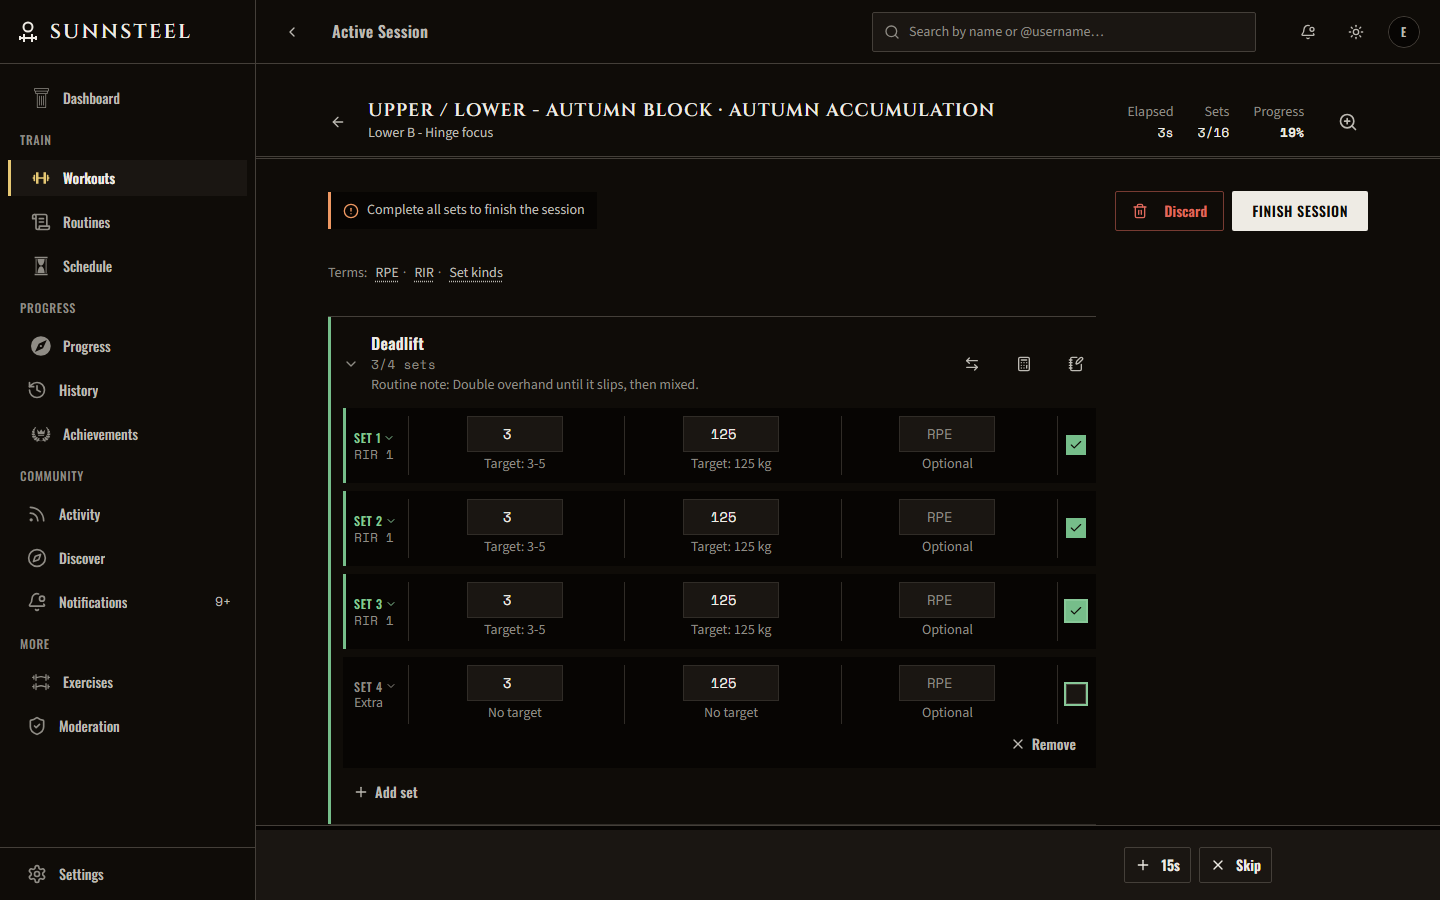
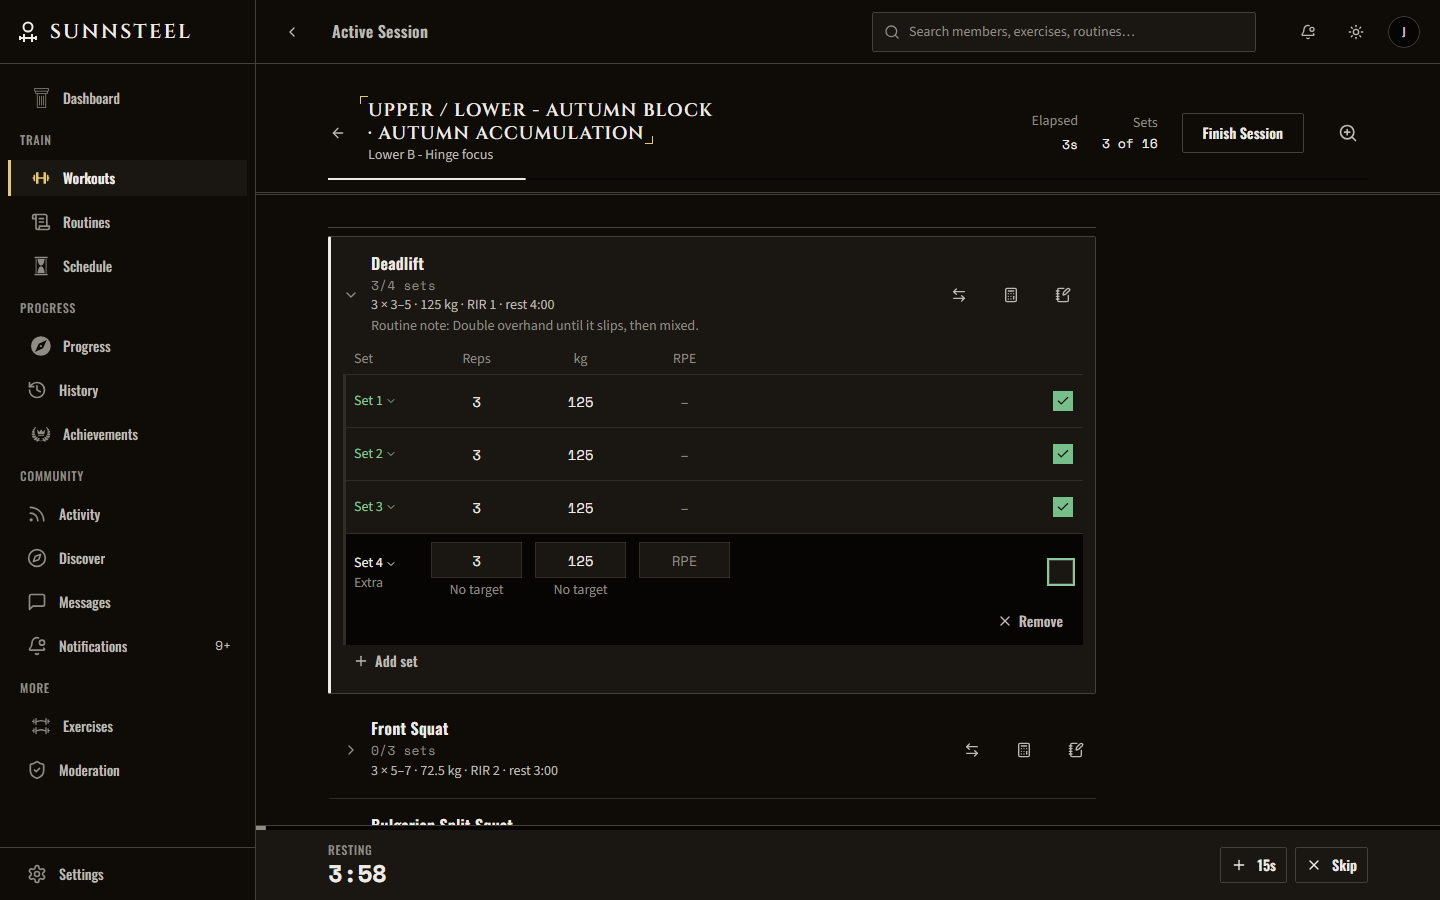
fix(workout): reduced motion marks only finished exercises done (LIVE-22)
Under reduced motion `.mark-fill::before` was scaled in on every row
that carries it, so each exercise on the workout screen, untouched or
current, showed the green completion rule. It is now scoped to
`.mark-success`, in the media block and its data-motion mirror.

The live-session portfolio setup ticks whatever set is current and opens
a folded exercise by its exact name to untick it, because a finished
exercise folds and rows can no longer be found by position; the three
frames are recaptured.

diff --git a/e2e/portfolio-targets.ts b/e2e/portfolio-targets.ts
@@ -150,21 +150,56 @@ async function startScratchSession(
 	}
 
 	const rows = page.getByTestId('set-log-container')
-	const logged: number[] = []
+	// LIVE-22: the set to log is always the current one, and a finished
+	// exercise folds, so rows are found by their names, never by position.
+	const logged: string[] = []
+	const exerciseOf = (label: string) =>
+		label.match(/^Mark set \d+ of (.+) complete$/)?.[1] ?? ''
+	const removeExtra = async () => {
+		const extra = rows.filter({ hasText: 'Extra' })
+		if (!(await extra.count())) return
+		// On the current row Remove is a button; off it, it is in the set's menu.
+		const button = extra.first().getByRole('button', { name: /^Remove set / })
+		if (await button.count()) {
+			await button.click()
+		} else {
+			await extra
+				.first()
+				.getByRole('button', { name: /^Set \d+, / })
+				.click()
+			await page.getByRole('menuitem', { name: /^Remove set / }).click()
+		}
+		await expect(extra).toHaveCount(0)
+	}
 	const cleanup: Cleanup = async () => {
 		await page.keyboard.press('Escape')
-		const remove = page.getByRole('button', { name: /^Remove set / })
-		if (await remove.count()) {
-			await remove.first().click()
-			await expect(remove).toHaveCount(0)
-		}
-		for (const index of logged) {
-			const box = rows.nth(index).getByRole('checkbox', {
-				name: /^Mark set \d+ of .+ complete$/,
-			})
+		await removeExtra()
+		for (const label of logged) {
+			const box = page.getByRole('checkbox', { name: label, exact: true })
+			if (!(await box.count())) {
+				// A finished exercise folds; open it to reach the set. Its toggle
+				// is the button in the h3 that names exactly that exercise.
+				await page
+					.locator('h3')
+					.filter({
+						has: page.getByText(exerciseOf(label), { exact: true }),
+					})
+					.getByRole('button', { expanded: false })
+					.first()
+					.click()
+				await expect(box).toBeVisible()
+			}
 			if ((await box.getAttribute('data-state')) === 'checked') {
 				await box.click()
-				await expect(box).toHaveAttribute('data-state', 'unchecked')
+				// Unticking can move the current set and re-render the row, so
+				// read the box again rather than holding the old element.
+				await expect
+					.poll(async () =>
+						(await box.count())
+							? await box.getAttribute('data-state')
+							: 'unchecked',
+					)
+					.toBe('unchecked')
 			}
 		}
 		await page.waitForLoadState('networkidle')
@@ -172,28 +207,25 @@ async function startScratchSession(
 	}
 
 	try {
-		await expect(
-			rows.nth(SETS_TO_LOG - 1),
-			`The started day has fewer than ${SETS_TO_LOG} sets.`,
-		).toBeVisible()
-
 		for (let index = 0; index < SETS_TO_LOG; index++) {
-			const row = rows.nth(index)
+			const row = page.locator('[data-state="current"]').first()
+			await expect(
+				row,
+				`The started day has fewer than ${SETS_TO_LOG} sets.`,
+			).toBeVisible()
 			const reps = row.getByLabel(/: reps$/)
 			if (!(await reps.inputValue())) {
 				// LIVE-22: a set that matches its exercise's prescription line
 				// ("3 × 8 · 60 kg") has no caption of its own.
 				const caption = row.getByText(/^Target: /)
+				const line = row
+					.locator('xpath=ancestor::*[.//h3][1]')
+					.getByText(/^\d+ × \d+/)
 				const target = (await caption.count())
 					? await caption.first().innerText()
-					: ((
-							await page
-								.getByText(/^\d+ × \d+/)
-								.filter({ visible: true })
-								.first()
-								.innerText()
-								.catch(() => '')
-						).match(/× (\d+)/)?.[1] ?? '')
+					: (((await line.count())
+							? (await line.first().innerText()).match(/× (\d+)/)?.[1]
+							: '') ?? '')
 				await reps.fill(target.match(/\d+/)?.[0] ?? '8')
 			}
 			const weight = row.getByLabel(/: weight in /)
@@ -209,9 +241,12 @@ async function startScratchSession(
 			const box = row.getByRole('checkbox', {
 				name: /^Mark set \d+ of .+ complete$/,
 			})
+			const label = (await box.getAttribute('aria-label')) ?? ''
 			await box.click()
-			logged.push(index)
-			await expect(box).toHaveAttribute('data-state', 'checked')
+			logged.push(label)
+			await expect(
+				page.getByRole('checkbox', { name: label, exact: true }),
+			).toHaveAttribute('data-state', 'checked')
 		}
 		await page.waitForLoadState('networkidle')
 		if (extraSet) {
@@ -225,12 +260,11 @@ async function startScratchSession(
 			await extra.scrollIntoViewIfNeeded()
 		}
 		if (kindMenu) {
-			// LIVE-12: the next set's kind menu, open; nothing is changed.
+			// LIVE-12: the current set's kind menu, open; nothing is changed.
 			const trigger = page
-				.getByRole('button', {
-					name: /^Set \d+, .+\. (Change set kind|More for this set)$/,
-				})
-				.nth(SETS_TO_LOG)
+				.locator('[data-state="current"]')
+				.first()
+				.getByRole('button', { name: /^Set \d+, / })
 			await trigger.scrollIntoViewIfNeeded()
 			await trigger.click()
 			await expect(page.getByRole('menuitemradio').first()).toBeVisible()

diff --git a/app/globals.css b/app/globals.css
@@ -771,8 +771,10 @@
   .mark-fill.mark-success::before {
     animation: none !important;
   }
-  /* The mark is simply there, at its final state. */
-  .mark-fill::before {
+  /* The mark is simply there, at its final state -- on a completed row only.
+     LIVE-22: unscoped, it drew the completion mark on every exercise, so under
+     reduced motion an untouched one read as done. */
+  .mark-fill.mark-success::before {
     transform: scaleY(1);
   }
   /* Overlays become opacity-only: no scale, no side translate (§3). */
@@ -809,7 +811,7 @@
 :root[data-motion='reduce'] .mark-fill.mark-success::before {
   animation: none !important;
 }
-:root[data-motion='reduce'] .mark-fill::before {
+:root[data-motion='reduce'] .mark-fill.mark-success::before {
   transform: scaleY(1);
 }
 :root[data-motion='reduce'] *,

diff --git a/docs/ui-design-system.md b/docs/ui-design-system.md
@@ -2417,5 +2417,9 @@ John Doe test account, in headless Chromium:
 - Keyboard: Enter moved reps → weight → RPE and ticked; focus landed on the
   next set's reps field, in a single exercise and across a superset's
   members; an untouched suggestion logged as its weight.
+- Two defects older than `LIVE-22` surfaced in its frames and were fixed
+  with it: under reduced motion the completion mark (`.mark-fill`) was drawn
+  on every exercise, so an untouched one read as done; and the fixed rest bar
+  hid its countdown under the sidebar from `md` (§27.5).
 - **Not verified:** the keyboard staying open on a real phone (iOS Safari and
   Android Chrome) and a screen reader pass; both need a device.
